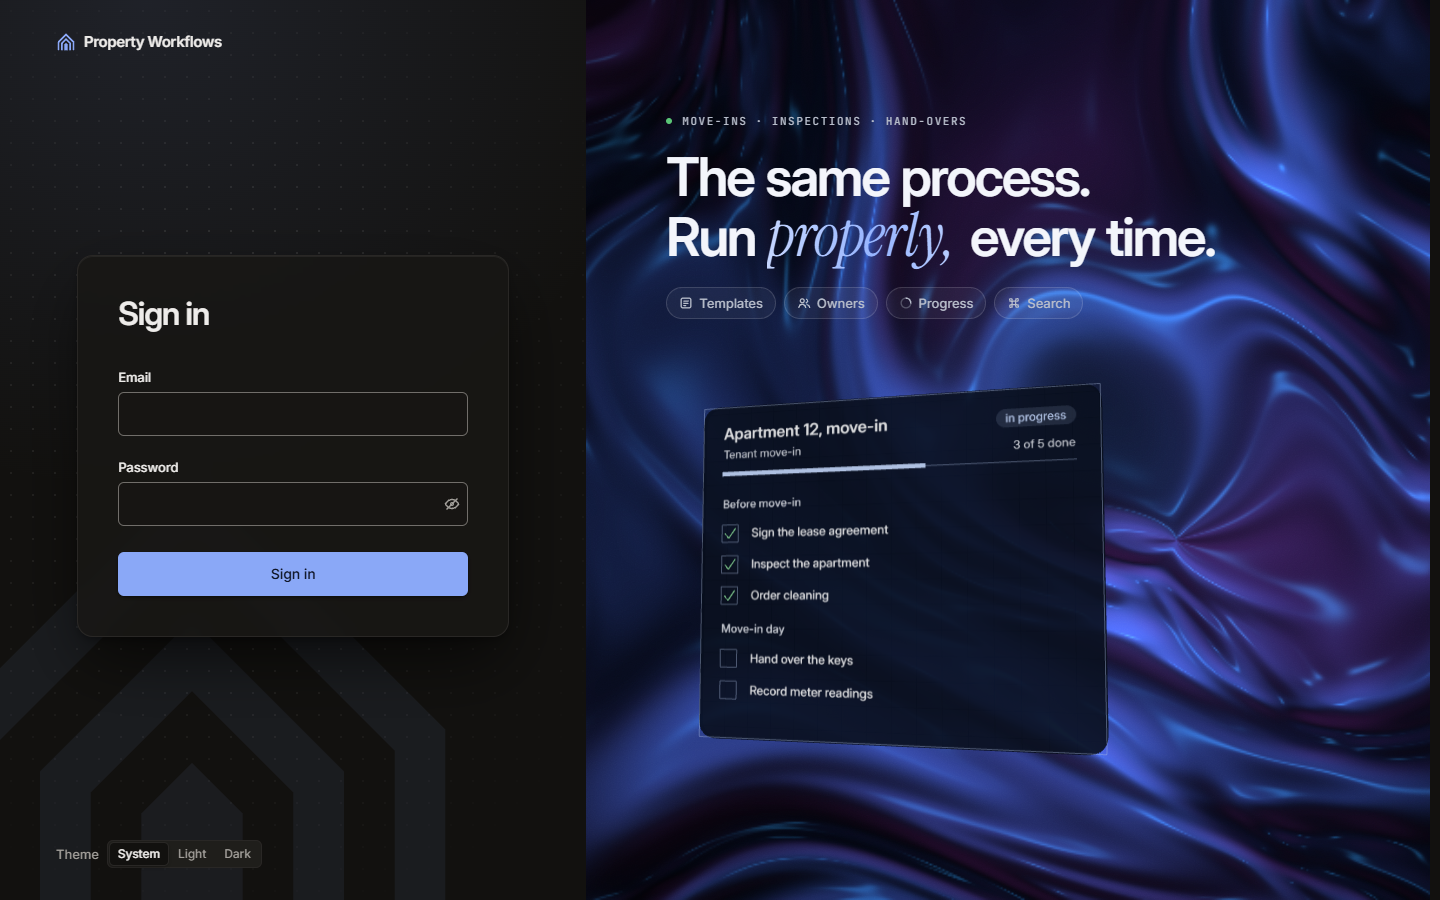
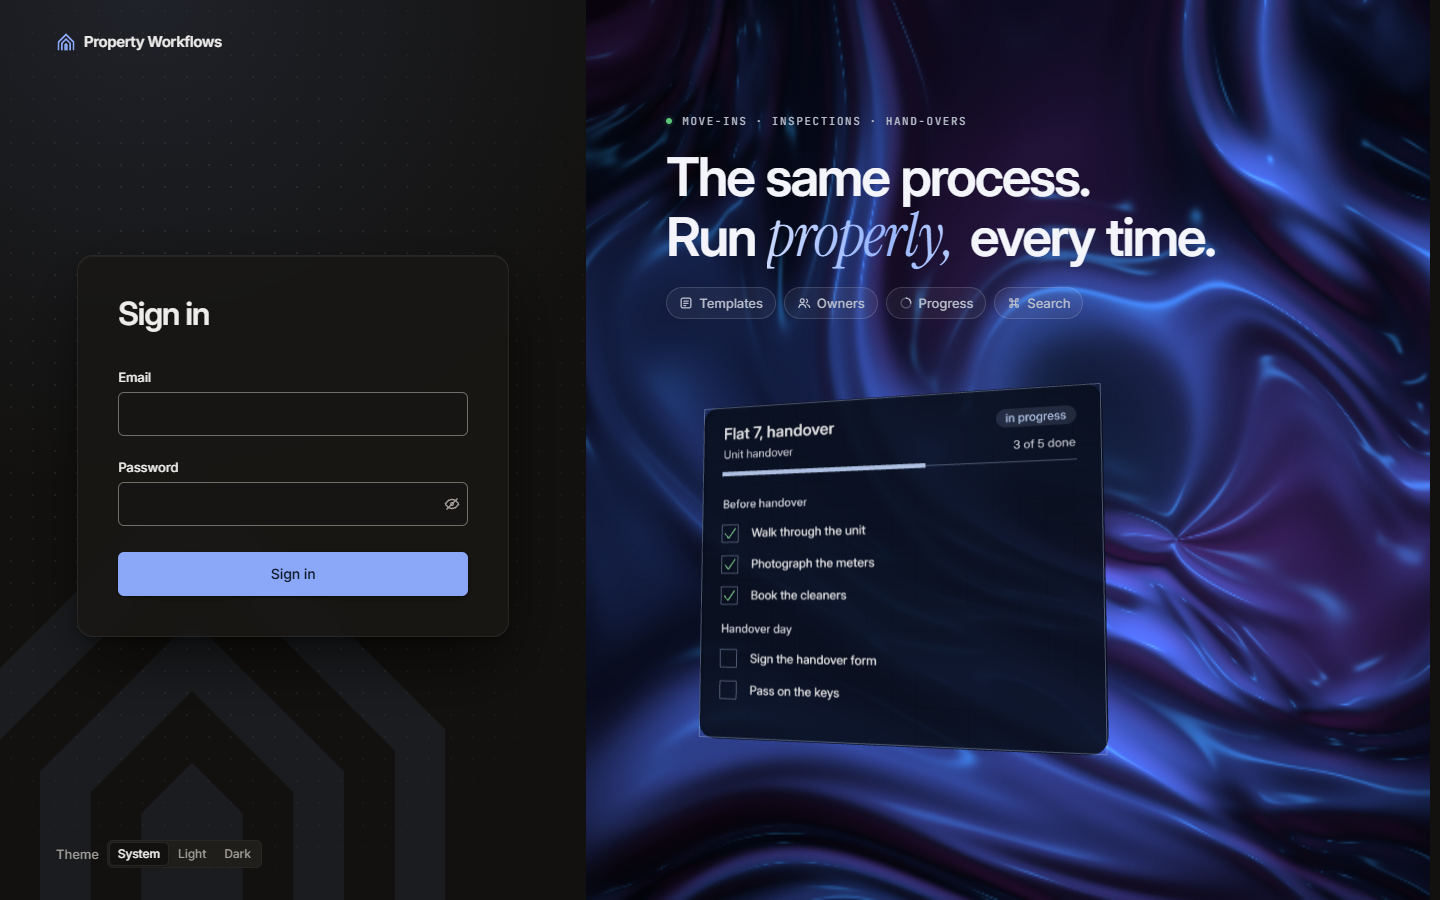
Landing: знімки й DESIGN.md з вигаданими назвами креслення («Flat 7, handover»)

diff --git a/DESIGN.md b/DESIGN.md
@@ -10,7 +10,7 @@
 
 Інтерфейс для менеджерів і адміністраторів нерухомості: вони щодня запускають шаблони, ведуть задачі й дивляться, де застряг запуск. Основне місце роботи — робочий стіл, тому щільність як у Linear: рядки 32–44 px, контроли 32 px, мало рамок, структура відчувається, а не малюється. Тон: **спокійний, діловий, теплий, уважний**. Нейтралі теплі (відтінок 80–85), акцент — приглушений indigo (відтінок 268), що майже протилежний теплим сірим і тому читається чисто. Уникаємо: кричущих градієнтів на робочих екранах, емодзі як маркерів, сирих кольорів, пастельного «розмитого» тла замість змісту.
 
-Єдиний навмисно «кінематографічний» екран — вхід: сцена зі шовковим WebGL-шейдером (світла в світлій темі, темна в темній), і 3D-сценою «креслення, що оживає» (Three.js): аркуш-креслення шаблону з сіткою промальовується лініями, піднімається й складається у скляну картку запуску «Apartment 12, move-in», задачі виконуються по одній, запуск стає «completed» з м'яким спалахом, картка відпливає — цикл ≈12 с; курсор злегка нахиляє сцену. Без WebGL — «ехо» даху з логотипу і картка, у якій чекліст сам виконується. Це перша мить продукту. Усередині рух стриманий: 120–240 мс, ease-out, без перельоту на кольорі й прозорості. Сторінка з'являється з легким підйомом (240 мс), лічильники на головній «набираються» від нуля, кільце й смужка прогресу домальовуються, списки з'являються каскадом (перші 8, по 24 мс), `Select` закривається 140 мс. Усе зникає за `prefers-reduced-motion`. Тема — вибір «Theme»: System (за замовчуванням, слідує за виглядом пристрою через `prefers-color-scheme`), Light, Dark. Вибір лежить на пристрої (`localStorage`, ключ `pw.theme`), не в профілі, і діє на всіх сторінках, зокрема на вході; `data-theme` на `<html>` виставляє вбудований скрипт у `<head>` до першого малювання (без спалаху), для System атрибута немає.
+Єдиний навмисно «кінематографічний» екран — вхід: сцена зі шовковим WebGL-шейдером (світла в світлій темі, темна в темній), і 3D-сценою «креслення, що оживає» (Three.js): аркуш-креслення шаблону з сіткою промальовується лініями, піднімається й складається у скляну картку запуску «Flat 7, handover» (вигадані назви, не з бази — AC-EDITOR-09), задачі виконуються по одній, запуск стає «completed» з м'яким спалахом, картка відпливає — цикл ≈12 с; курсор злегка нахиляє сцену. Без WebGL — «ехо» даху з логотипу і картка, у якій чекліст сам виконується. Це перша мить продукту. Усередині рух стриманий: 120–240 мс, ease-out, без перельоту на кольорі й прозорості. Сторінка з'являється з легким підйомом (240 мс), лічильники на головній «набираються» від нуля, кільце й смужка прогресу домальовуються, списки з'являються каскадом (перші 8, по 24 мс), `Select` закривається 140 мс. Усе зникає за `prefers-reduced-motion`. Тема — вибір «Theme»: System (за замовчуванням, слідує за виглядом пристрою через `prefers-color-scheme`), Light, Dark. Вибір лежить на пристрої (`localStorage`, ключ `pw.theme`), не в профілі, і діє на всіх сторінках, зокрема на вході; `data-theme` на `<html>` виставляє вбудований скрипт у `<head>` до першого малювання (без спалаху), для System атрибута немає.
 
 ## 2. Кольори
 
